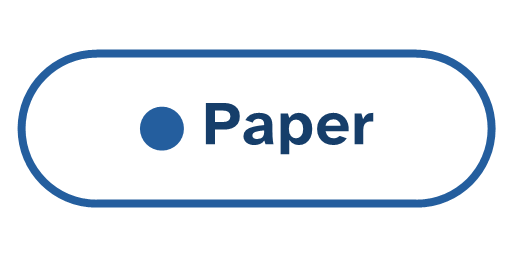
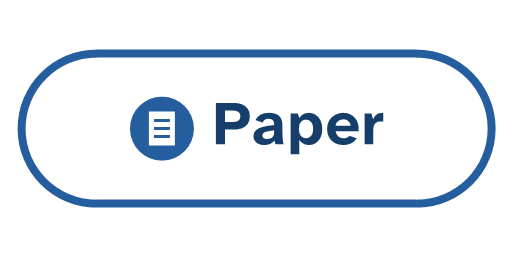
Tonnen-Aufkleber: Bild-Symbol je Tonne statt Farbpunkt

Changed region(s): [[0.25, 0.375, 0.75, 0.625]]

diff --git a/IMPROVEMENTS.md b/IMPROVEMENTS.md
@@ -12,7 +12,7 @@ zu ändern.
 Backlog vom 2026-10-28 (vom Nutzer bestätigt). Neue Ziele/Hindernisse sind
 ausdrücklich erlaubt; Werfen, Physik-Grundlagen und Wertung bleiben gleich.
 
-- [ ] **Tonnen-Design**: (Band + Deckelkante erledigt) Aufkleber/Symbol sauberer; weichere Kanten/Schatten. Gleicher Stil, keine Ruckler.
+- [ ] **Tonnen-Design, Rest** (optional): weichere Schatten/Kanten.
 - [ ] **Gegenstände-Design**: einheitlichere Farben, weichere Formen, Material
   erkennbar (Glas glänzt, Papier matt). Je Zyklus eine Material-Gruppe.
 - [ ] **Szene aufwerten, nicht überladen**: wenige Boden-Details (Fugen, Gully),
@@ -34,6 +34,7 @@ ausdrücklich erlaubt; Werfen, Physik-Grundlagen und Wertung bleiben gleich.
 
 ## Erledigt
 
+- [x] Tonnen-Aufkleber: Bild-Symbol statt Farbpunkt (Blatt, Flasche, Papier, ♻, Tonne)
 - [x] Tonnen: Verstärkungsband + Deckel-Vorderkante (s. Commit „Tonnen: Band“)
 - [x] Menü: kleinere Modus-Schilder, unteres Menü tiefer (329b48c)
 - [x] Menü: Gegenstand über dem unteren Menü, nicht hinter „Weiter“ (1444aa6)
